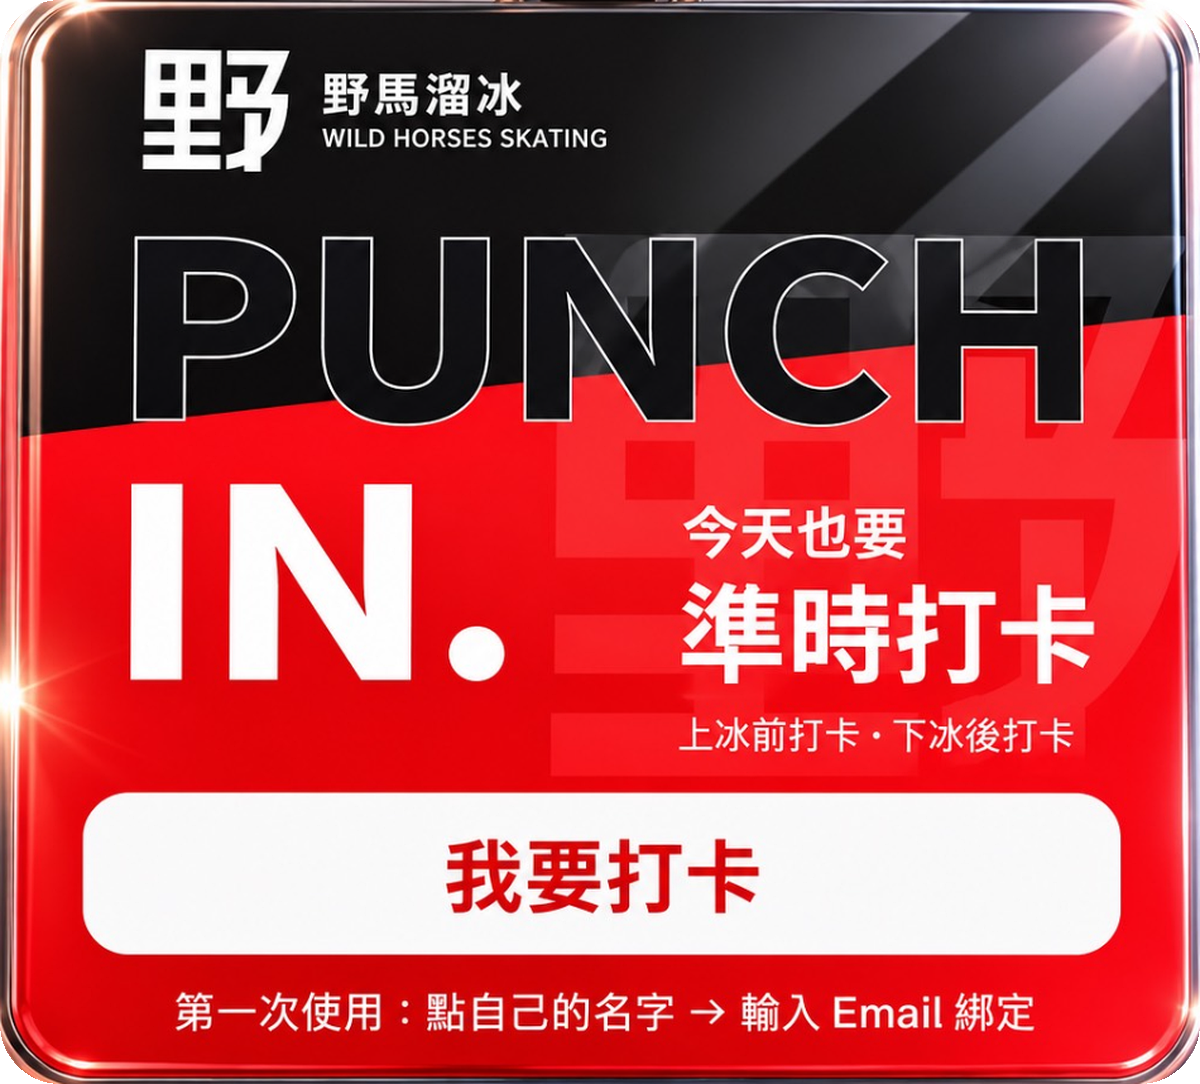
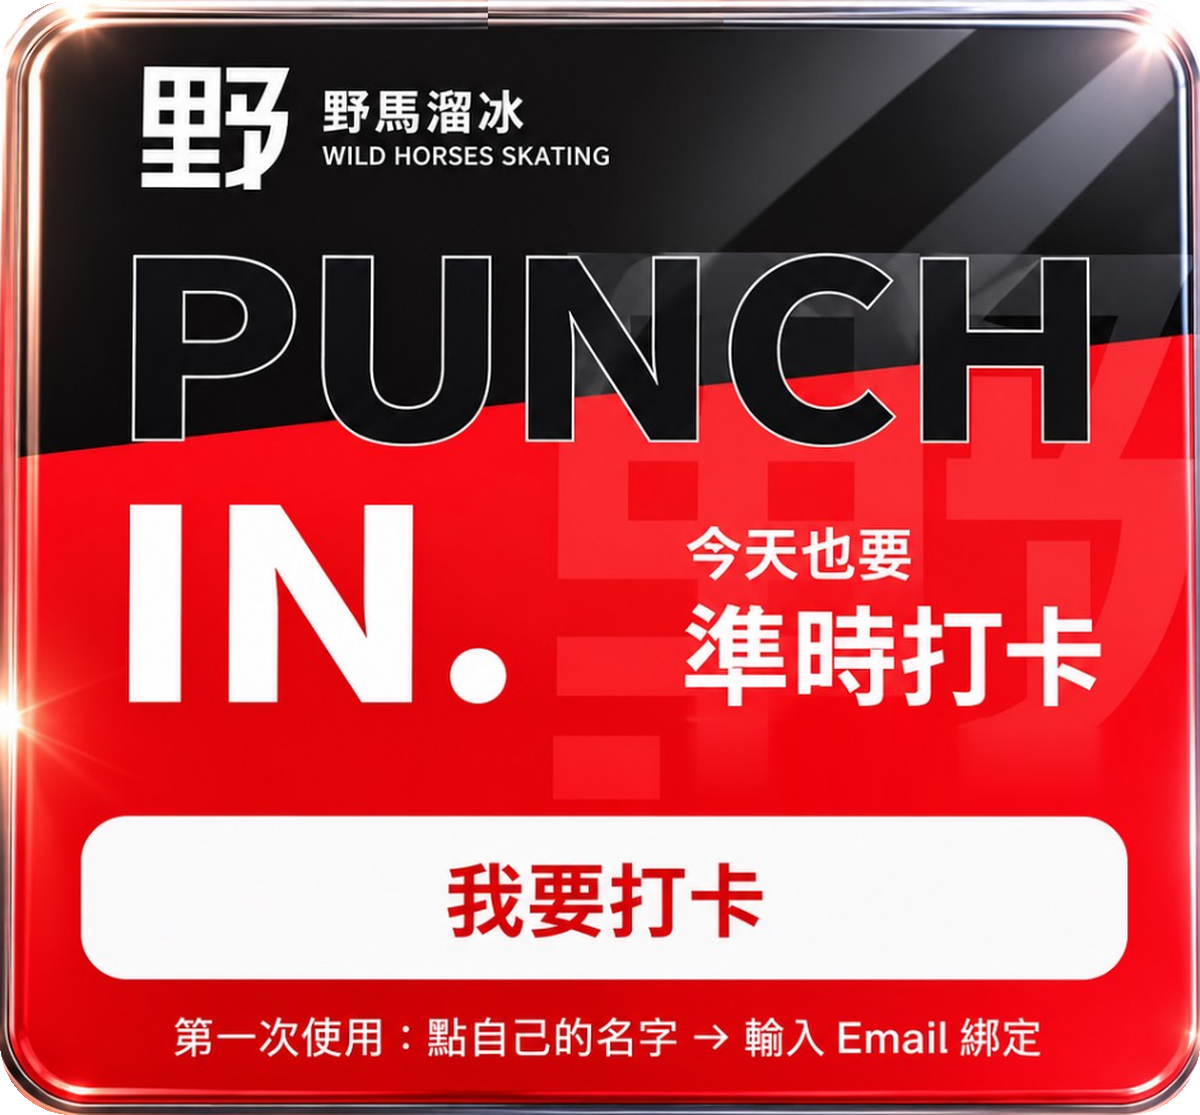
分享吊牌：保留上方邊框、去掉金屬頭、移除上冰下冰字
Claude-Session: https://claude.ai/code/session_01SgUoPMs89Ch7rWoMucrYnN

diff --git a/app.js b/app.js
@@ -6,7 +6,7 @@ import {
   initializeFirestore, doc, getDoc, setDoc as _setDoc, updateDoc as _updateDoc, deleteDoc as _deleteDoc, addDoc as _addDoc,
   collection, query, where, getDocs, serverTimestamp, writeBatch as _writeBatch, deleteField, arrayUnion, arrayRemove
 } from "https://www.gstatic.com/firebasejs/10.12.2/firebase-firestore.js";
-import { firebaseConfig, LIFF_ID, WORKER_URL } from "./config.js?v=79";
+import { firebaseConfig, LIFF_ID, WORKER_URL } from "./config.js?v=80";
 
 /* 整個月的大量查詢（報表、薪資、排班）暫存 3 分鐘，省 Firestore 讀取額度；任何寫入都會清掉暫存 */
 const MEMO = new Map();
@@ -856,7 +856,7 @@ $("#sharePunchBtn").onclick = async () => {
   const flex = { type: "flex", altText: "今天也要準時打卡｜野馬溜冰打卡系統", contents: {
     type: "bubble",
     styles: { hero: { backgroundColor: "#00000000" } },
-    hero: { type: "image", url: "https://wild-horses-skating.pages.dev/share-card.png?v=10", size: "full", aspectRatio: "1200:1084", aspectMode: "fit", action: { type: "uri", label: "我要打卡", uri: PUNCH_URL } } } };
+    hero: { type: "image", url: "https://wild-horses-skating.pages.dev/share-card.png?v=11", size: "full", aspectRatio: "1200:1105", aspectMode: "fit", action: { type: "uri", label: "我要打卡", uri: PUNCH_URL } } } };
   if (me?.role !== "admin") return;
   const ok = await getLiff();
   if (!ok || !liff.isInClient?.()) return appAlert("請在 LINE 裡打開", "圖文卡片只能在 LINE 裡分享，請從 LINE 官方帳號的選單打開打卡系統再按一次。");

diff --git a/index.html b/index.html
@@ -16,7 +16,7 @@
   <title>野馬溜冰打卡系統</title>
   <meta property="og:title" content="野馬溜冰打卡系統">
   <meta property="og:description" content="點這裡上班・下班打卡">
-  <meta property="og:image" content="https://wild-horses-skating.pages.dev/share-card.png?v=10">
+  <meta property="og:image" content="https://wild-horses-skating.pages.dev/share-card.png?v=11">
   <meta property="og:url" content="https://liff.line.me/2012318362-VOU7aFr9?view=clock">
   <meta name="twitter:card" content="summary_large_image">
   <link rel="preconnect" href="https://www.gstatic.com" crossorigin>
@@ -26,7 +26,7 @@
   <link rel="modulepreload" href="https://www.gstatic.com/firebasejs/10.12.2/firebase-app.js">
   <link rel="modulepreload" href="https://www.gstatic.com/firebasejs/10.12.2/firebase-auth.js">
   <link rel="modulepreload" href="https://www.gstatic.com/firebasejs/10.12.2/firebase-firestore.js">
-  <link rel="stylesheet" href="style.css?v=79">
+  <link rel="stylesheet" href="style.css?v=80">
 </head>
 <body>
 
@@ -786,6 +786,6 @@
     }
   }, 25000);
 </script>
-<script type="module" src="app.js?v=79"></script>
+<script type="module" src="app.js?v=80"></script>
 </body>
 </html>
